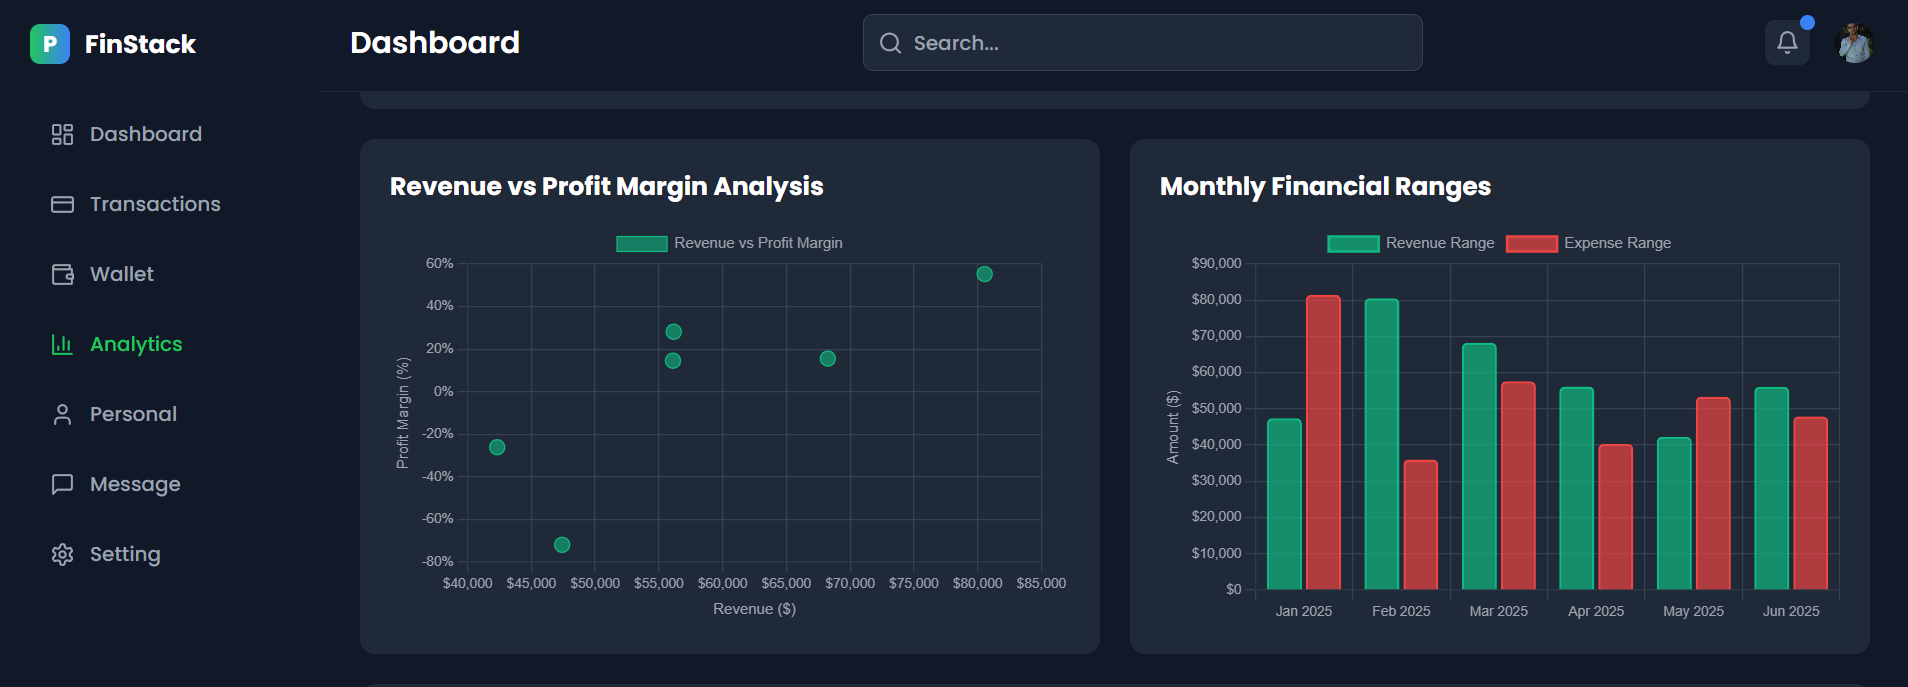
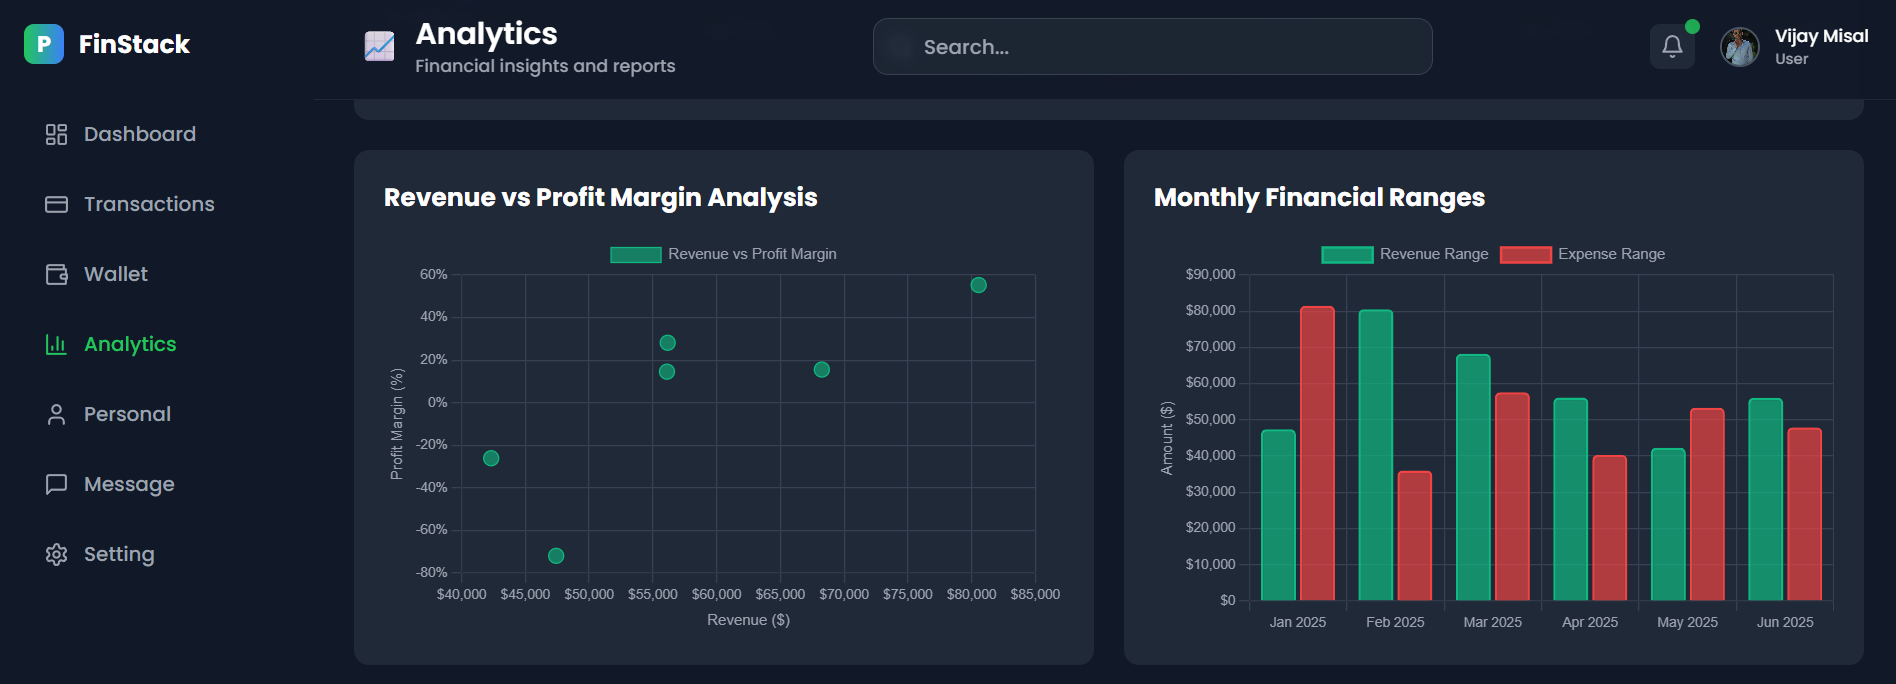
updating readme

diff --git a/client/src/components/Header.tsx b/client/src/components/Header.tsx
@@ -1,13 +1,14 @@
 import React, { useState } from 'react';
-import { Search, Bell, User, LogOut, Settings, HelpCircle } from 'lucide-react';
+import { Search, Bell, User, LogOut, Settings, HelpCircle, Menu } from 'lucide-react';
 import { useAuth } from '../contexts/AuthContext';
 
 interface HeaderProps {
   searchQuery: string;
   onSearchChange: (query: string) => void;
+  activeTab: string;
 }
 
-const Header: React.FC<HeaderProps> = ({ searchQuery, onSearchChange }) => {
+const Header: React.FC<HeaderProps> = ({ searchQuery, onSearchChange, activeTab }) => {
   const { user, logout } = useAuth();
   const [showUserMenu, setShowUserMenu] = useState(false);
 
@@ -19,35 +20,98 @@ const Header: React.FC<HeaderProps> = ({ searchQuery, onSearchChange }) => {
     }
   };
 
+  // Function to get display name for active tab
+  const getTabDisplayName = (tab: string) => {
+    const tabNames: { [key: string]: string } = {
+      'dashboard': 'Dashboard',
+      'transactions': 'Transactions',
+      'wallet': 'Wallet',
+      'analytics': 'Analytics',
+      'personal': 'Personal Finance',
+      'message': 'Messages',
+      'setting': 'Settings'
+    };
+    return tabNames[tab] || 'Dashboard';
+  };
+
+  // Function to get tab emoji/icon
+  const getTabEmoji = (tab: string) => {
+    const tabEmojis: { [key: string]: string } = {
+      'dashboard': '📊',
+      'transactions': '💳',
+      'wallet': '👛',
+      'analytics': '📈',
+      'personal': '👤',
+      'message': '💬',
+      'setting': '⚙'
+    };
+    return tabEmojis[tab] || '📊';
+  };
+
+  // Function to get tab description
+  const getTabDescription = (tab: string) => {
+    const descriptions: { [key: string]: string } = {
+      'dashboard': 'Overview of your financial data',
+      'transactions': 'Manage your financial transactions',
+      'wallet': 'Digital wallet management',
+      'analytics': 'Financial insights and reports',
+      'personal': 'Personal finance management',
+      'message': 'Notifications and messages',
+      'setting': 'Account and app settings'
+    };
+    return descriptions[tab] || 'Overview of your financial data';
+  };
+
   return (
-    <div className="sticky top-0 z-30 bg-gray-900 border-b border-gray-800 lg:ml-64">
-      <div className="flex items-center justify-between px-6 py-4">
-        {/* Left section - Dashboard title */}
-        <div className="flex items-center">
-          <h1 className="text-2xl font-semibold text-white">Dashboard</h1>
+    <div className="sticky top-0 z-30 bg-gray-900/95 backdrop-blur-sm border-b border-gray-800 lg:ml-64">
+      <div className="flex items-center justify-between px-4 sm:px-6 py-4">
+        {/* Left section - Current Tab Display */}
+        <div className="flex items-center space-x-3">
+          {/* Mobile menu button - only visible on mobile */}
+          <button className="lg:hidden p-2 rounded-lg bg-gray-800 hover:bg-gray-700 text-gray-400 hover:text-white transition-all duration-200">
+            <Menu className="w-5 h-5" />
+          </button>
+
+          {/* Tab Display */}
+          <div className="flex items-center space-x-3">
+            <span className="text-2xl hidden sm:inline">{getTabEmoji(activeTab)}</span>
+            <div>
+              <h1 className="text-xl sm:text-2xl font-semibold text-white">
+                {getTabDisplayName(activeTab)}
+              </h1>
+              <p className="text-xs sm:text-sm text-gray-400 hidden sm:block">
+                {getTabDescription(activeTab)}
+              </p>
+            </div>
+          </div>
         </div>
 
-        {/* Center section - Search bar (visual only) */}
-        <div className="flex-1 max-w-md mx-8">
-          <div className="relative">
+        {/* Center section - Search bar (hidden on small screens) */}
+        <div className="hidden md:flex flex-1 max-w-md mx-8">
+          <div className="relative w-full">
             <Search className="absolute left-3 top-1/2 transform -translate-y-1/2 text-gray-400 w-5 h-5" />
             <input
               type="text"
               placeholder="Search..."
               value={searchQuery}
               onChange={(e) => onSearchChange(e.target.value)}
-              className="w-full bg-gray-800 text-white placeholder-gray-400 pl-10 pr-4 py-2.5 rounded-lg border border-gray-700 focus:outline-none focus:ring-2 focus:ring-blue-500 focus:border-blue-500 transition-all duration-200"
+              className="w-full bg-gray-800/80 text-white placeholder-gray-400 pl-10 pr-4 py-2.5 rounded-xl border border-gray-700 focus:outline-none focus:ring-2 focus:ring-green-500/50 focus:border-green-500 transition-all duration-200 backdrop-blur-sm"
             />
           </div>
         </div>
 
         {/* Right section - Notifications and User */}
-        <div className="flex items-center space-x-4">
+        <div className="flex items-center space-x-2 sm:space-x-4">
+          {/* Mobile search button */}
+          <button className="md:hidden p-2 rounded-lg bg-gray-800 hover:bg-gray-700 text-gray-400 hover:text-white transition-all duration-200">
+            <Search className="w-5 h-5" />
+          </button>
+
           {/* Notifications */}
           <div className="relative">
-            <button className="p-2 rounded-lg bg-gray-800 hover:bg-gray-700 text-gray-400 hover:text-white transition-all duration-200">
+            <button className="p-2 rounded-lg bg-gray-800 hover:bg-gray-700 text-gray-400 hover:text-white transition-all duration-200 relative">
               <Bell className="w-5 h-5" />
-              <div className="absolute -top-1 -right-1 w-3 h-3 bg-blue-500 rounded-full" />
+              <div className="absolute -top-1 -right-1 w-3 h-3 bg-green-500 rounded-full animate-pulse" />
             </button>
           </div>
 
@@ -55,70 +119,106 @@ const Header: React.FC<HeaderProps> = ({ searchQuery, onSearchChange }) => {
           <div className="relative">
             <button
               onClick={() => setShowUserMenu(!showUserMenu)}
-              className="flex items-center space-x-3 p-1 rounded-lg hover:bg-gray-800 transition-all duration-200"
+              className="flex items-center space-x-2 sm:space-x-3 p-1 rounded-lg hover:bg-gray-800 transition-all duration-200"
             >
               {user?.avatar ? (
                 <img
                   src={user.avatar}
                   alt={user.name}
-                  className="w-8 h-8 rounded-full object-cover"
+                  className="w-8 h-8 rounded-full object-cover border-2 border-gray-600 hover:border-green-500 transition-colors"
                 />
               ) : (
-                <div className="w-8 h-8 bg-blue-500 rounded-full flex items-center justify-center">
+                <div className="w-8 h-8 bg-gradient-to-br from-green-500 to-emerald-600 rounded-full flex items-center justify-center border-2 border-gray-600 hover:border-green-500 transition-colors">
                   <User className="w-4 h-4 text-white" />
                 </div>
               )}
+
+              {/* User name - hidden on small screens */}
+              <div className="hidden sm:block text-left">
+                <div className="text-white font-medium text-sm">{user?.name}</div>
+                <div className="text-gray-400 text-xs capitalize">{user?.role}</div>
+              </div>
             </button>
 
             {/* User dropdown */}
             {showUserMenu && (
-              <div className="absolute right-0 mt-2 w-64 bg-gray-800 rounded-lg shadow-xl border border-gray-700 animate-fade-in-up">
-                <div className="p-4 border-b border-gray-700">
-                  <div className="flex items-center space-x-3">
-                    {user?.avatar ? (
-                      <img
-                        src={user.avatar}
-                        alt={user.name}
-                        className="w-10 h-10 rounded-full object-cover"
-                      />
-                    ) : (
-                      <div className="w-10 h-10 bg-blue-500 rounded-full flex items-center justify-center">
-                        <User className="w-5 h-5 text-white" />
+              <>
+                {/* Backdrop for mobile */}
+                <div
+                  className="fixed inset-0 z-40 md:hidden"
+                  onClick={() => setShowUserMenu(false)}
+                />
+
+                <div className="absolute right-0 mt-2 w-64 sm:w-72 bg-gray-800/95 backdrop-blur-xl rounded-xl shadow-2xl border border-gray-700/50 animate-fade-in-up z-50">
+                  {/* User info header */}
+                  <div className="p-4 border-b border-gray-700/50">
+                    <div className="flex items-center space-x-3">
+                      {user?.avatar ? (
+                        <img
+                          src={user.avatar}
+                          alt={user.name}
+                          className="w-12 h-12 rounded-full object-cover border-2 border-gray-600"
+                        />
+                      ) : (
+                        <div className="w-12 h-12 bg-gradient-to-br from-green-500 to-emerald-600 rounded-full flex items-center justify-center border-2 border-gray-600">
+                          <User className="w-6 h-6 text-white" />
+                        </div>
+                      )}
+                      <div className="flex-1 min-w-0">
+                        <div className="text-white font-medium text-sm truncate">{user?.name}</div>
+                        <div className="text-gray-400 text-xs truncate">{user?.email}</div>
+                        <div className="text-xs text-green-400 capitalize mt-1">
+                          <span className="inline-flex items-center px-2 py-1 rounded-full bg-green-500/20 border border-green-500/30">
+                            {user?.role}
+                          </span>
+                        </div>
                       </div>
-                    )}
-                    <div>
-                      <div className="text-white font-medium text-sm">{user?.name}</div>
-                      <div className="text-gray-400 text-xs">{user?.email}</div>
-                      <div className="text-xs text-blue-400 capitalize">{user?.role}</div>
                     </div>
                   </div>
-                </div>
 
-                <div className="p-2">
-                  <button className="w-full flex items-center space-x-3 px-3 py-2 rounded-lg text-gray-300 hover:text-white hover:bg-gray-700 transition-all duration-200">
-                    <User className="w-4 h-4" />
-                    <span className="text-sm">Profile Settings</span>
-                  </button>
-                  <button className="w-full flex items-center space-x-3 px-3 py-2 rounded-lg text-gray-300 hover:text-white hover:bg-gray-700 transition-all duration-200">
-                    <Settings className="w-4 h-4" />
-                    <span className="text-sm">Preferences</span>
-                  </button>
-                  <button className="w-full flex items-center space-x-3 px-3 py-2 rounded-lg text-gray-300 hover:text-white hover:bg-gray-700 transition-all duration-200">
-                    <HelpCircle className="w-4 h-4" />
-                    <span className="text-sm">Help & Support</span>
-                  </button>
-                  <hr className="my-2 border-gray-700" />
-                  <button
-                    onClick={handleLogout}
-                    className="w-full flex items-center space-x-3 px-3 py-2 rounded-lg text-red-400 hover:text-red-300 hover:bg-red-500/10 transition-all duration-200"
-                  >
-                    <LogOut className="w-4 h-4" />
-                    <span className="text-sm">Sign Out</span>
-                  </button>
+                  {/* Menu items */}
+                  <div className="p-2">
+                    <button className="w-full flex items-center space-x-3 px-3 py-2.5 rounded-lg text-gray-300 hover:text-white hover:bg-gray-700/50 transition-all duration-200 text-left">
+                      <User className="w-4 h-4 flex-shrink-0" />
+                      <span className="text-sm">Profile Settings</span>
+                    </button>
+                    <button className="w-full flex items-center space-x-3 px-3 py-2.5 rounded-lg text-gray-300 hover:text-white hover:bg-gray-700/50 transition-all duration-200 text-left">
+                      <Settings className="w-4 h-4 flex-shrink-0" />
+                      <span className="text-sm">Preferences</span>
+                    </button>
+                    <button className="w-full flex items-center space-x-3 px-3 py-2.5 rounded-lg text-gray-300 hover:text-white hover:bg-gray-700/50 transition-all duration-200 text-left">
+                      <HelpCircle className="w-4 h-4 flex-shrink-0" />
+                      <span className="text-sm">Help & Support</span>
+                    </button>
+
+                    <hr className="my-2 border-gray-700/50" />
+
+                    <button
+                      onClick={handleLogout}
+                      className="w-full flex items-center space-x-3 px-3 py-2.5 rounded-lg text-red-400 hover:text-red-300 hover:bg-red-500/10 transition-all duration-200 text-left"
+                    >
+                      <LogOut className="w-4 h-4 flex-shrink-0" />
+                      <span className="text-sm">Sign Out</span>
+                    </button>
+                  </div>
                 </div>
-              </div>
+              </>
             )}
           </div>
+        </div>
+      </div>
+
+      {/* Mobile search bar - shown when search button is clicked */}
+      <div className="md:hidden px-4 pb-4">
+        <div className="relative">
+          <Search className="absolute left-3 top-1/2 transform -translate-y-1/2 text-gray-400 w-5 h-5" />
+          <input
+            type="text"
+            placeholder="Search..."
+            value={searchQuery}
+            onChange={(e) => onSearchChange(e.target.value)}
+            className="w-full bg-gray-800/80 text-white placeholder-gray-400 pl-10 pr-4 py-2.5 rounded-xl border border-gray-700 focus:outline-none focus:ring-2 focus:ring-green-500/50 focus:border-green-500 transition-all duration-200 backdrop-blur-sm"
+          />
         </div>
       </div>
     </div>

diff --git a/client/src/App.tsx b/client/src/App.tsx
@@ -278,7 +278,11 @@ function DashboardContent() {
   return (
     <div className="min-h-screen bg-gray-900">
       <Sidebar activeTab={activeTab} onTabChange={setActiveTab} />
-      <Header searchQuery={searchQuery} onSearchChange={setSearchQuery} />
+      <Header
+        searchQuery={searchQuery}
+        onSearchChange={setSearchQuery}
+        activeTab={activeTab}
+      />
 
       {/* Alert System */}
       <AlertSystem alerts={alerts} onRemoveAlert={removeAlert} />

diff --git a/Readme.md b/Readme.md
@@ -40,15 +40,16 @@ A modern, full-stack financial dashboard application built with React and Node.j
 
 ### Dashboard Overview
 ![Dashboard Overview](screenshots/Dashboard.png)
+![Dashboard Overview](screenshots/Dashboard2.png)
 
 ### Transaction Management
-![Transaction Management](screenshots/Transactions.png)
+![Transaction Management](screenshots/transaction.png)
 
 ### Export Features
-![Export Features](screenshots/Exporting-Transactions.png)
+![Export Features](screenshots/export.png)
 
 ### Analytics & Reports
-![Analytics and Reports](screenshots/Analytics.png)
+![Analytics and Reports](screenshots/Analytics1.png)
 
 ![Analytics Reports](screenshots/Analytics2.png)
 
